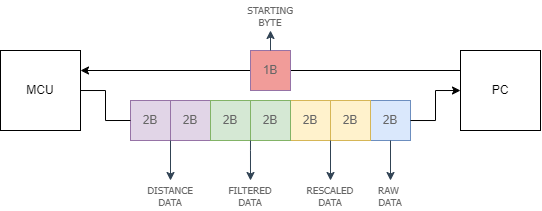
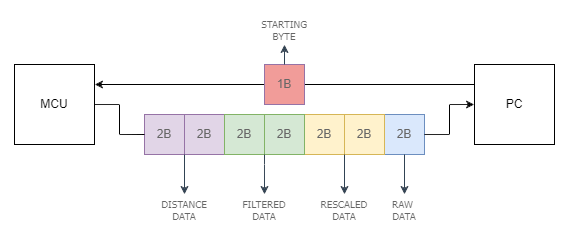
docu: white bg for register pic

Changed region(s): [[0.0, 0.0284, 1.0, 0.9953]]

diff --git a/docs/Projects/UltraSound.md b/docs/Projects/UltraSound.md
@@ -117,8 +117,8 @@ function *read_mcu_xcorr_details.m* reads raw-, rescaled-, and filtered data.
 
 Since we are using serial communication, the data is received one bit at a time. To start receiving the data from the microcontroller, the PC initiates the communication by sending the starting byte. 
 
-![Serial communication between the mcu and the pc]({{site.baseurl}}/assets/images/serial_communication_registers.png)
-
+<img src="{{site.baseurl}}/assets/images/serial_communication_registers.png" alt="Serial communication between the mcu and the pc"/>
+{: .text-center}
 
 This diagram depicts one iteration of PC receiving the data. This continues for number of iterations that are specified in the MATLAB script. Then, the data is plotted for visualization.
 
